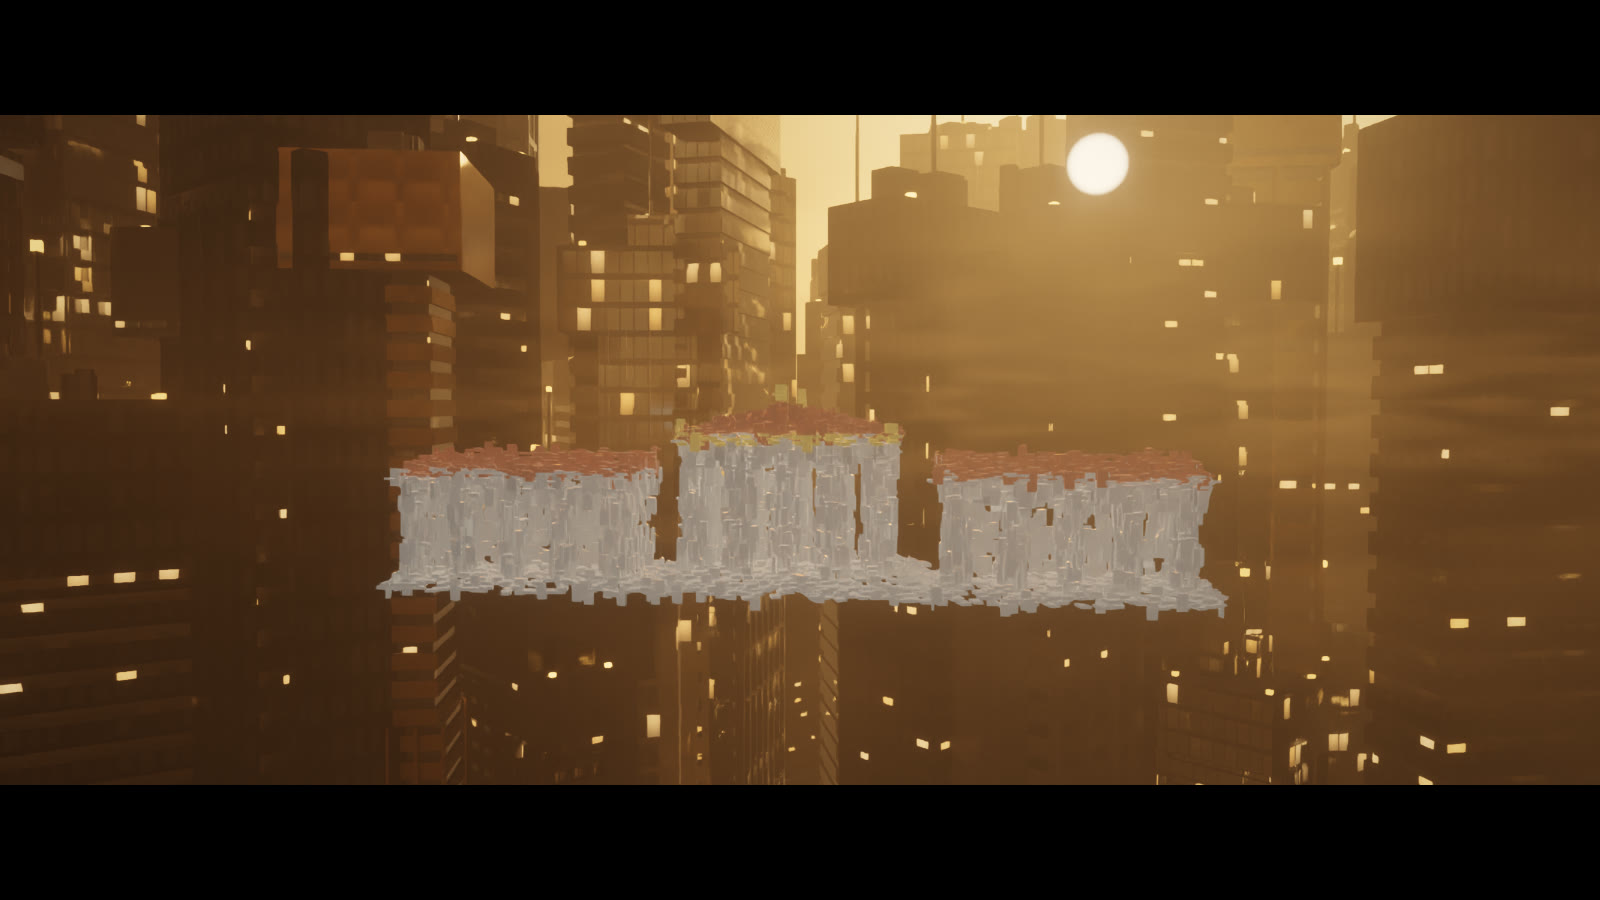
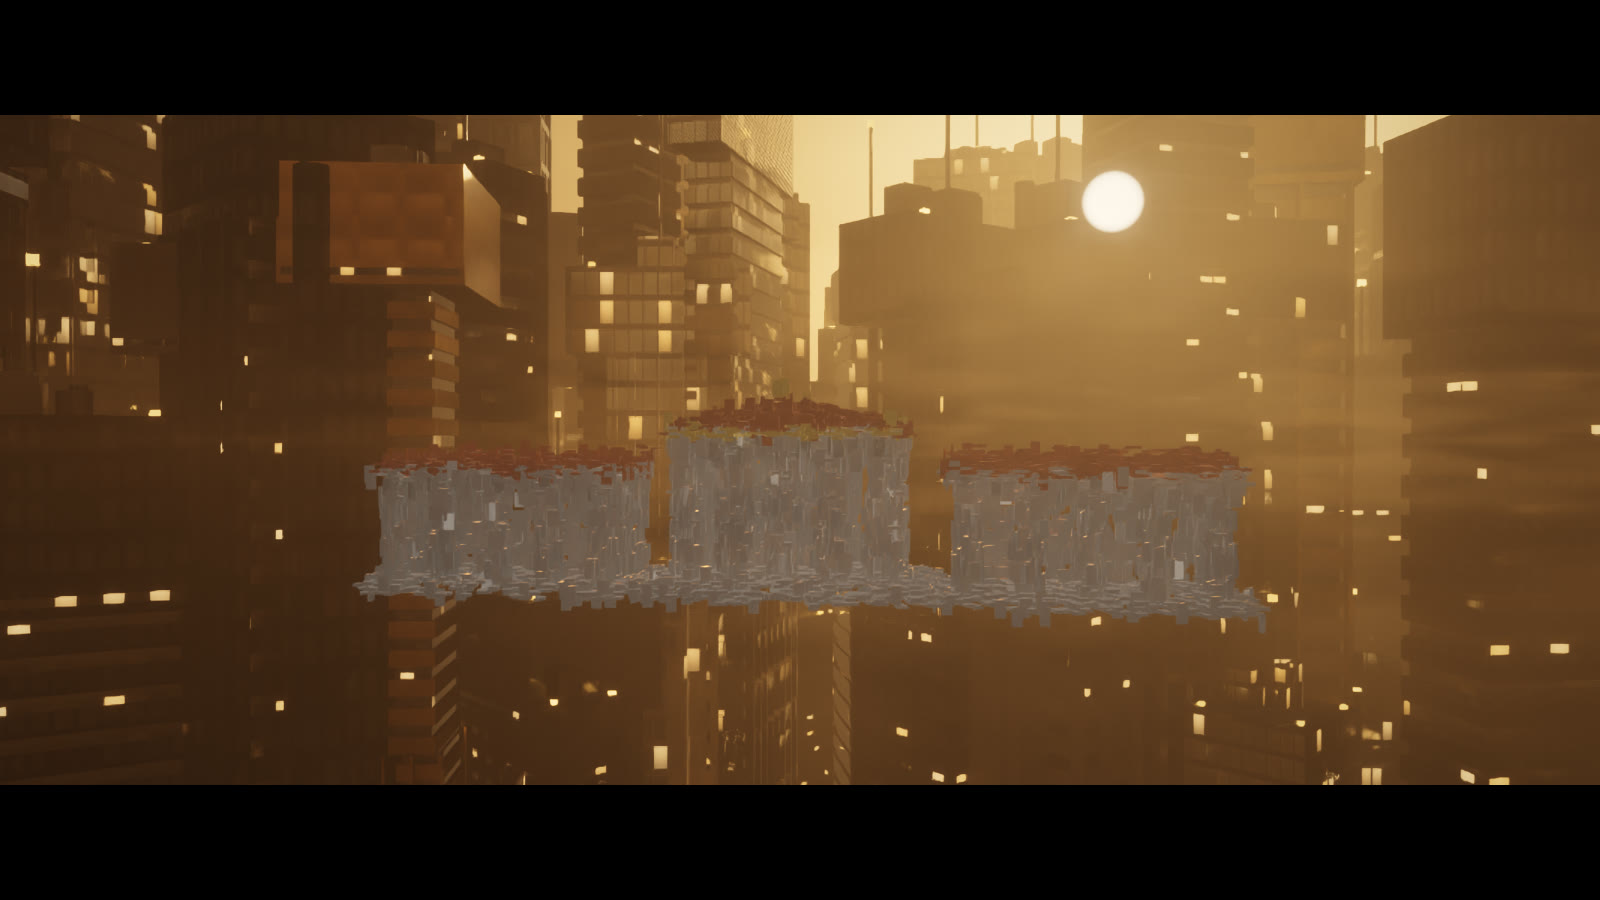
Colossus: marble and terracotta for the Lego blocks; visible max-out run
ComfyUI (Z-Image-Turbo, already on the machine, seeds 480 and 432) and
Blender's headless bake made two more textures, through the same scripts as
the others. Lego stone takes the marble's veins and honed finish under its
courses; roof tiles take the terracotta's burns and cracks under their ribs.
Each takes only its texture's detail, its brightness over the layer's mean
from the last mip, so every box keeps its own colour. The array has 12
layers.

The build's points are made on a worker (90 to 150 ms). In the auto cycle
the colossus starts no line after 19 s, so a late line cannot hold the face
into the Lego block's turn.

Visible window, streamed, --cinematic --dlss quality --rr --pt, 100 s: GPU
7.14 ms p50, 78 of 88 full seconds at exactly 60 frames. The propylon image
is retaken there. DLSS-G stays unwired: the screen is 59 Hz, and Streamline
has no vsync with frame generation on Vulkan; the README says why.

Claude-Session: https://claude.ai/code/session_01D35ECM7h6PGGcqKbJSG2fB

diff --git a/Experiments/Brutal/Colossus/Program.cs b/Experiments/Brutal/Colossus/Program.cs
@@ -520,6 +520,13 @@ internal static unsafe class Colossus
             return textureLod(surfaces, vec3(uv, layer), log2(max(footprint * float(textureSize(surfaces, 0).x) / tile, 1.0)));
         }
 
+        // A layer's mean brightness, from its last mip: the Lego surfaces take only their texture's detail, and keep the
+        // box's colour.
+        float meanOf(float layer)
+        {
+            return max(dot(pow(textureLod(surfaces, vec3(0.5, 0.5, layer), 16.0).rgb, vec3(2.2)), vec3(0.2126, 0.7152, 0.0722)), 0.05);
+        }
+
         // A curtain wall in cells 1.6 m wide and one floor high: panes between mullions, a spandrel at each slab, a few
         // offices lit (most warm, some cool), some panes with their blinds down. Each pane leans a little, as real glass
         // does, so that reflections break from pane to pane. px is a pixel's size in metres: as a cell shrinks under two
@@ -660,16 +667,20 @@ internal static unsafe class Colossus
                 s.bump = (vec2(noise(st * 3.1 + draw * 5.0), noise(st.yx * 3.1 + 17.0)) - 0.5) * 0.5;
                 if (code < 0.5)
                 {
-                    // Dressed stone: on the larger faces, courses 0.6 m high of blocks 1.2 m long, each course set half a
-                    // block over, their joints fading as they shrink under a pixel; a soft grain everywhere.
+                    // Dressed marble: the ComfyUI marble's veins over the box's colour, a tile every 3 m, honed; on the
+                    // larger faces, courses 0.6 m high of blocks 1.2 m long, each course set half a block over, their
+                    // joints fading as they shrink under a pixel.
+                    vec2 uv = st / 3.0 + draw * vec2(7.31, 3.17);
+                    vec3 m = pow(tex(uv, 8.0, 3.0, footprint).rgb, vec3(2.2));
+                    vec4 map = tex(uv, 9.0, 3.0, footprint);
                     vec2 q = st / vec2(1.2, 0.6);
                     q.x += 0.5 * mod(floor(q.y), 2.0);
                     vec2 e = (0.5 - abs(fract(q) - 0.5)) * vec2(1.2, 0.6);
                     float big = step(2.5, side ? min(scale.y, max(scale.x, scale.z)) : min(scale.x, scale.z));
                     float joint = big * (1.0 - smoothstep(0.01, 0.03, min(e.x, e.y))) * clamp(1.0 - px / 0.1, 0.0, 1.0);
-                    s.albedo = color.rgb * (0.86 + 0.16 * n + 0.06 * fine) * (1.0 - 0.3 * joint);
-                    s.bump *= 0.3;
-                    s.rough = mix(0.6 + 0.25 * fine, 0.95, joint);
+                    s.albedo = color.rgb * mix(vec3(dot(m, vec3(0.2126, 0.7152, 0.0722))), m, 0.5) / meanOf(8.0) * (0.94 + 0.08 * n) * (1.0 - 0.3 * joint);
+                    s.bump = (map.rg * 2.0 - 1.0) * 0.8;
+                    s.rough = mix(0.45 + 0.3 * map.b, 0.95, joint);
                     s.f0 = 0.04;
                 }
                 else if (code < 1.5)
@@ -692,9 +703,13 @@ internal static unsafe class Colossus
                     // Tiles in courses 0.42 m apart, spaced along the box's longer side as the cover tiles run down a
                     // roof whose ridge is that side; each course's lip rounds the light.
                     float along = !side && scale.x < scale.z ? st.y : st.x;
+                    // The ComfyUI terracotta's burns and cracks, its brightness only, a tile every 2 m.
                     float rib = smoothstep(0.3, 0.5, abs(fract(along / 0.42) - 0.5));
-                    s.albedo = color.rgb * (0.8 + 0.25 * n) * (1.0 - 0.35 * rib);
-                    s.bump.x = sin(along / 0.42 * 6.2832) * 0.8;
+                    vec2 uv = st / 2.0 + draw * vec2(5.1, 2.3);
+                    float clay = dot(pow(tex(uv, 10.0, 2.0, footprint).rgb, vec3(2.2)), vec3(0.2126, 0.7152, 0.0722)) / meanOf(10.0);
+                    s.albedo = color.rgb * clay * (0.9 + 0.15 * n) * (1.0 - 0.35 * rib);
+                    s.bump = (tex(uv, 11.0, 2.0, footprint).rg * 2.0 - 1.0) * 0.6;
+                    s.bump.x += sin(along / 0.42 * 6.2832) * 0.8;
                     s.rough = 0.55 + 0.2 * fine;
                 }
                 else if (code < 5.5)
@@ -1192,6 +1207,7 @@ internal static unsafe class Colossus
     private static readonly string[] Builds = ["tholos", "temple", "propylon"];
     private static SN.Vector3[][] _buildP = [], _buildN = [];
     private static SN.Vector4[][] _buildC = [];
+    private static int _buildGeneration;
 
     // How many tasks steer and read the bodies, 2,048 at a time (--body-threads; 1 is one loop). They run on the step's
     // worker while Jolt's own threads are idle.
@@ -1961,7 +1977,7 @@ internal static unsafe class Colossus
 
         // The surface textures, made with ComfyUI and Blender (see the README): one 2D array, uploaded once through a
         // staging buffer, then mipmapped by blits.
-        string[] textureFiles = ["hull_albedo", "hull_nrh", "facade_albedo", "facade_nrh", "concrete_albedo", "concrete_nrh", "cladding_albedo", "cladding_nrh"];
+        string[] textureFiles = ["hull_albedo", "hull_nrh", "facade_albedo", "facade_nrh", "concrete_albedo", "concrete_nrh", "cladding_albedo", "cladding_nrh", "marble_albedo", "marble_nrh", "terracotta_albedo", "terracotta_nrh"];
         var texels = new List<byte[]>();
         var texSize = 0;
         foreach (var name in textureFiles)
@@ -2395,7 +2411,8 @@ internal static unsafe class Colossus
             mirror.Poll(now);
             var voice = mirrorOn && mirror.Speaking;
             // The colossus speaks its lines once the face has formed, one at a time with a pause between them, while no
-            // other voice speaks; a typed line as soon as Piper has made it. The face holds while it speaks.
+            // other voice speaks; a typed line as soon as Piper has made it. The face holds while it speaks, so in the auto
+            // cycle no line starts after 19 s: it would eat into the Lego block's turn at 24 s.
             if (lines.Length == 0 && linesTask.IsCompletedSuccessfully)
             {
                 lines = linesTask.Result;
@@ -2424,7 +2441,8 @@ internal static unsafe class Colossus
 
                 saying = null;
             }
-            else if (sound is not null && ((_french ? recordedFr : recordedEn) is not null || lines.Length > 0) && speaking && !voice && assembled && glow > 0.85f && !talking && now >= nextLineAt)
+            else if (sound is not null && ((_french ? recordedFr : recordedEn) is not null || lines.Length > 0) && speaking && !voice && assembled && glow > 0.85f && !talking && now >= nextLineAt
+                && (!autoCycle || (now - cycleStart) % 32.0 < 19.0))
             {
                 // The recording in the panel's language, or Piper's French.
                 var (pcm, rate, pitch) = (_french ? recordedFr : recordedEn) is { } recorded
@@ -3227,14 +3245,19 @@ internal static unsafe class Colossus
         }
 
         ReadStates(bodies, _states);
-        BuildShapes(n);
+        // The blocks are first needed 24 s in: they are made on a worker, and _buildP, set last, says when they are ready.
+        // A rebuild of the swarm drops them until its own are made.
+        _buildP = [];
+        var generation = ++_buildGeneration;
+        Task.Run(() => BuildShapes(n, generation));
     }
 
     // Spreads n points over each Lego block of Builds, by area: on the boxes' sides and tops (the swarm does not hang
     // under them) and never inside another box, so that two boxes that touch take no points where they meet. Each
     // block is scaled to fit 28 m across and 22 m high: smaller, the machines lie closer and its shape reads.
-    private static void BuildShapes(int n)
+    private static void BuildShapes(int n, int generation)
     {
+        var clock = Stopwatch.StartNew();
         var shapes = new List<(SN.Vector3[] P, SN.Vector3[] N, SN.Vector4[] C)>();
         foreach (var name in Builds)
         {
@@ -3321,9 +3344,15 @@ internal static unsafe class Colossus
             shapes.Add((p, nrm, col));
         }
 
-        _buildP = shapes.Select(s => s.P).ToArray();
+        if (generation != _buildGeneration)
+        {
+            return;
+        }
+
         _buildN = shapes.Select(s => s.N).ToArray();
         _buildC = shapes.Select(s => s.C).ToArray();
+        _buildP = shapes.Select(s => s.P).ToArray();
+        Console.WriteLine($"BUILD {string.Join(", ", Builds)}: {n} points each in {clock.ElapsedMilliseconds} ms");
     }
 
     private static SN.Vector3 Abs(SN.Vector3 v) => SN.Vector3.Abs(v);

diff --git a/Experiments/Brutal/Colossus/textures/generate_comfyui.py b/Experiments/Brutal/Colossus/textures/generate_comfyui.py
@@ -18,6 +18,13 @@ JOBS = [
     ("cladding", 1972, "flat orthographic texture photograph of brushed metal facade cladding, large rectangular "
                        "panels with thin recessed joints, fine vertical brushing, faint patina, even diffuse lighting, "
                        "no shadows, seamless metal texture"),
+    # For the Lego blocks: their stone and their roof tiles.
+    ("marble", 480, "flat orthographic texture photograph of a honed white marble slab, warm ivory stone with soft grey "
+                    "veins and a faint golden patina, fine pores, gently worn surface, even diffuse lighting, no shadows, "
+                    "seamless stone texture"),
+    ("terracotta", 432, "flat orthographic texture photograph of weathered terracotta clay, warm orange-red fired clay "
+                        "with darker burnt patches, fine cracks, pale dust and a few lichen spots, even diffuse lighting, "
+                        "no shadows, seamless clay texture"),
 ]
 wanted = sys.argv[1:] or [name for name, _, _ in JOBS]
 

diff --git a/Experiments/Brutal/Colossus/textures/bake_blender.py b/Experiments/Brutal/Colossus/textures/bake_blender.py
@@ -11,7 +11,7 @@ import numpy as np
 src, dst, *wanted = sys.argv[sys.argv.index("--") + 1:]
 SIZE = 512
 # Each texture and its bump strength.
-STRENGTHS = {"hull": 0.6, "facade": 0.8, "concrete": 0.7, "cladding": 0.4}
+STRENGTHS = {"hull": 0.6, "facade": 0.8, "concrete": 0.7, "cladding": 0.4, "marble": 0.35, "terracotta": 0.7}
 os.makedirs(dst, exist_ok=True)
 
 scene = bpy.context.scene

diff --git a/Experiments/Brutal/README.md b/Experiments/Brutal/README.md
@@ -315,7 +315,7 @@ Blender 5.2 then baked each albedo, headless with factory settings (`bake_blende
 - a tangent-space normal map, from a Bump node on its luminance;
 - a roughness map, from the same luminance.
 
-It packs normal X, normal Y, roughness and height into one RGBA map. The scene loads the eight PNGs into one texture
+It packs normal X, normal Y, roughness and height into one RGBA map. The scene loads the PNGs (twelve since the marble and terracotta of 2026-10-21) into one texture
 array with mips; its own PNG reader is in `Program.cs`.
 
 **Materials and RTX** (2026-10-20, asked as « une scène plus jolie (plus de verre, métal, béton) », « plus de features
@@ -973,16 +973,18 @@ stayed near 5 ms. This was not seen in the two final runs or uncapped. It is sti
   off them. Other widths and depths are bounded, but nothing checks them for overlaps.
 - **The swarm ignores the scene.** Its bodies pass through Lego boxes, which are drawn only, like the city.
 - **HallSlice shows no surfaces.** It only brightens glows.
-- **No assets.** Every surface is procedural, and no model, texture or asset was added.
+- **No assets.** Every surface was procedural, and no model, texture or asset was added. The next section adds two
+  textures, marble and terracotta.
 
 ## The swarm builds; path tracing (2026-10-21)
 
 Asked by the author: « continue a ameliorer la scene the swarm - peut etre utilise le systeme de lego et
 Comfyui/blender », then « Fait un max out comme dans la scene de l'observatoir », with full path tracing chosen.
 
-![The swarm builds the propylon, path traced with Ray Reconstruction](evidence/swarm-propylon-pt-20261021.jpg)
+![The swarm builds the propylon: visible window, DLSS Quality, path traced, Ray Reconstruction](evidence/swarm-propylon-pt-20261021.jpg)
 ![The swarm builds the tholos, DLAA without path tracing](evidence/swarm-tholos-20261021.jpg)
-![Acropolis on the Colossus, path traced with Ray Reconstruction](evidence/lego-acropolis-pt-20261021.jpg)
+![Acropolis in marble and terracotta, DLAA and Ray Reconstruction](evidence/lego-acropolis-marble-20261021.jpg)
+![Acropolis path traced with Ray Reconstruction, before the marble](evidence/lego-acropolis-pt-20261021.jpg)
 
 **The swarm builds between two faces.** The auto cycle keeps its 32 s, so the cinematic stays in step. It runs a cloud,
 then a face from 6 s, then from 24 s a Lego block, a different one each cycle: `tholos`, `temple` (temple@2) and
@@ -996,6 +998,8 @@ then a face from 6 s, then from 24 s a Lego block, a different one each cycle: `
   colour, and a brazier's flames light theirs. The tint rides in the instance's kind, from 1 to 1.4, so the rays see it
   too.
 - **Collisions.** Bodies do not collide while they build, as while they form the face.
+- **Timing.** The points are made on a worker at start, in 90 to 150 ms. In the auto cycle the colossus starts no line
+  after 19 s, since the face holds while it speaks and a late line would eat into the block's turn.
 
 **Path tracing.** `--pt` (with RTX) follows one path a pixel, up to three bounces, in place of the ambient, fill, rim,
 occlusion and mirror rays.
@@ -1015,17 +1019,39 @@ Measured on an RTX 5080: hidden window, 1600 × 900, 10,000 swarm bodies, GPU ti
 | `--lego acropolis --dlss --rr --pt` (DLAA), 15 s | 11.85 / 13.08 | 16.63 / 33.29 |
 | `--cinematic --dlss --rr --pt` (DLAA), 98 s with the three blocks | 12.43 / 20.68 | 16.90 / 33.98 |
 | `--cinematic --dlss quality --rr --pt`, 98 s with the three blocks | 7.24 / 11.74 | 16.64 / 17.95 |
+| The same, in a visible window streamed by demo-cast, 100 s | 7.14 / 13.05 | 16.64 / 25.80 |
 
 The full max out that holds 60 fps is therefore `--dlss quality --rr --pt`. At DLAA, the paths outgrow the frame at
-p95. The propylon image was taken before the machines' own glow was lowered from 0.25 to 0.1.
+p95. In the visible window, 78 of the 88 full seconds after start drew exactly 60 frames. The others dipped to between
+23 and 44 frames, at start and around the captures.
 
-*To verify.*
-- These runs used a hidden window; a visible one is still to check.
-- Frame generation (DLSS-G) is not wired: Streamline finds `sl.dlss_g` but the Colossus does not ask for it.
+**Frame generation (DLSS-G) is not wired.** The observatory has it (F8), and Streamline finds `sl.dlss_g` here too. On
+this machine it would show nothing more:
+- **The screen.** It runs at 59 Hz, and the Colossus already draws 60 frames a second, path traced included.
+- **No vsync.** On Vulkan, Streamline does not support vsync with frame generation, so it would only add tearing (the
+  observatory's notes, `artpass/dlss/NOTES.md`).
+- **Focus.** It generates nothing without the window's focus.
+
+Wiring it would mean, in manual hooking:
+- the swapchain through Streamline's proxies;
+- Reflex and its latency markers;
+- a HUD-less colour tag.
+
+It is worth doing for a screen of 120 Hz or more.
+
+**Marble and terracotta** (asked as « peut etre utilise le systeme de lego et Comfyui/blender »). ComfyUI and Blender
+made two more textures for the Lego blocks, the same way and with the same model as the others (`textures/`). They
+come from `generate_comfyui.py` (seeds 480 and 432) and `bake_blender.py`.
+- **Stone.** It now carries the marble's veins and honed finish, a tile every 3 m, under its courses.
+- **Roof tiles.** They carry the terracotta's burns and cracks, a tile every 2 m, under their ribs.
+- **Colour.** Each surface takes only its texture's detail: its brightness over the texture's mean, read from the last
+  mip. The box keeps its own colour.
+
+The texture array grows from 8 layers to 12.
 
 **Limits.**
 - **Points by area, not by eye.** A column gets as many machines as a wall of the same area. Thin parts, such as the
   acroteria, can get none.
 - **The block floats.** It stands at the face's height, not on the walkway.
-- **No ComfyUI or Blender.** ComfyUI was not running, and the blocks needed no asset: every surface is still
-  procedural.
+- **Only Lego statics show the marble.** The swarm's machines keep their hull texture, tinted by the box's colour.
+- **The acropolis's path-traced image** was taken before the marble.
